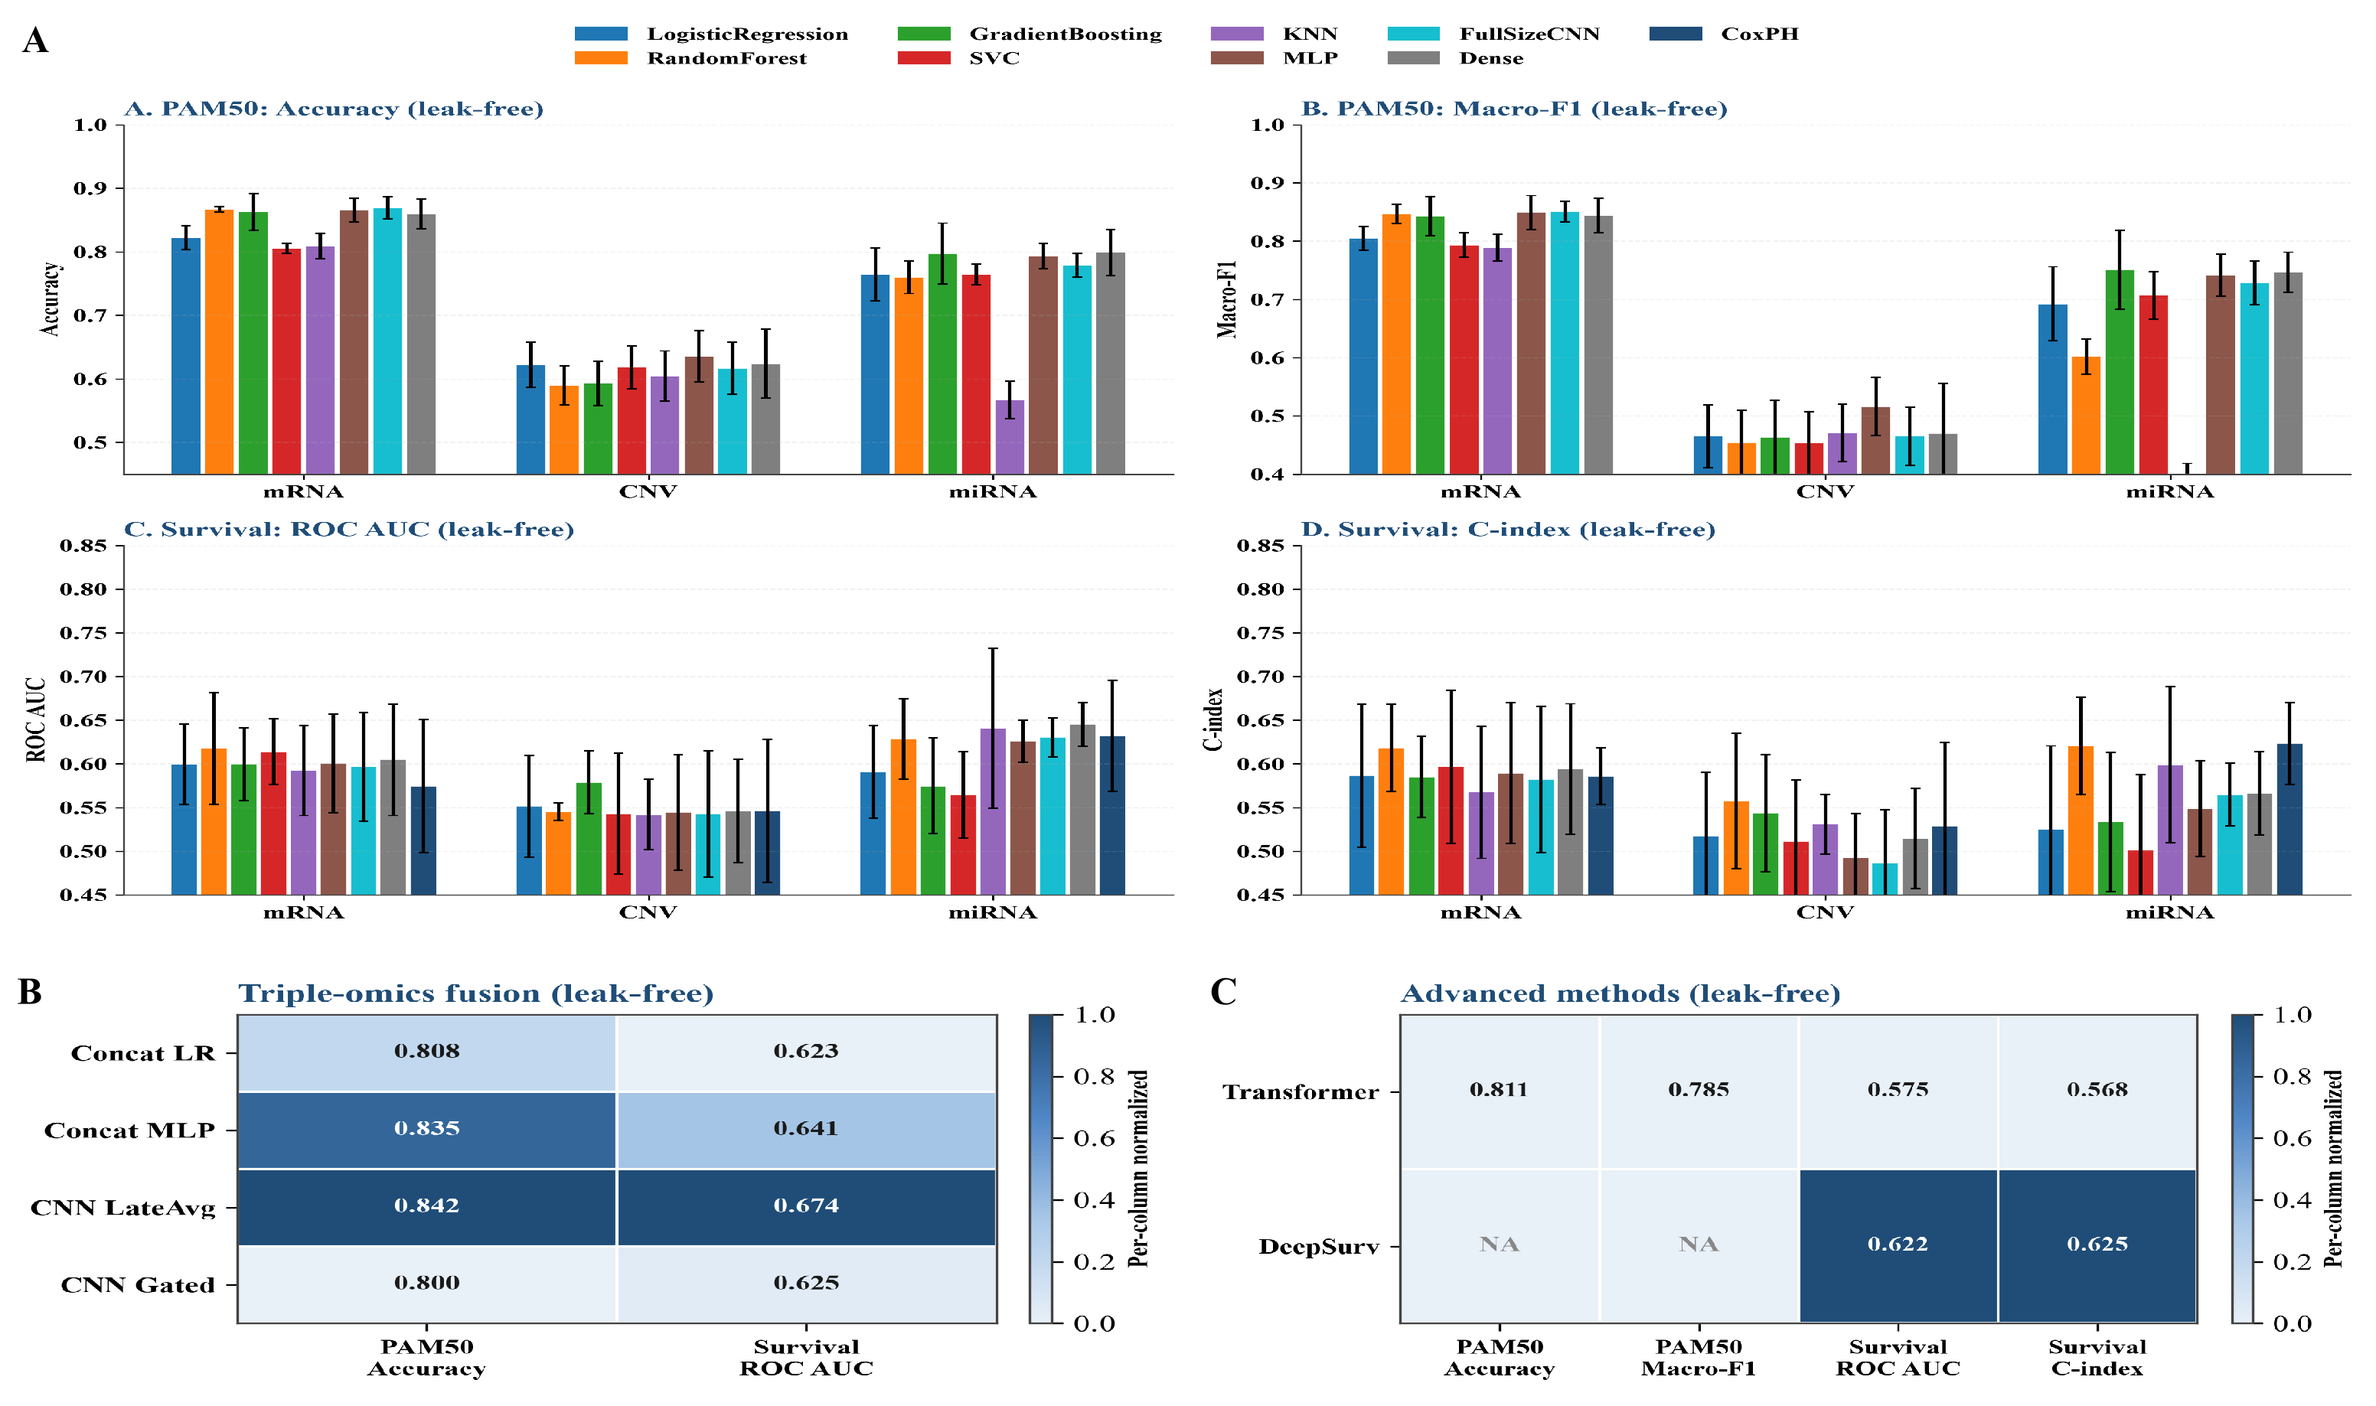
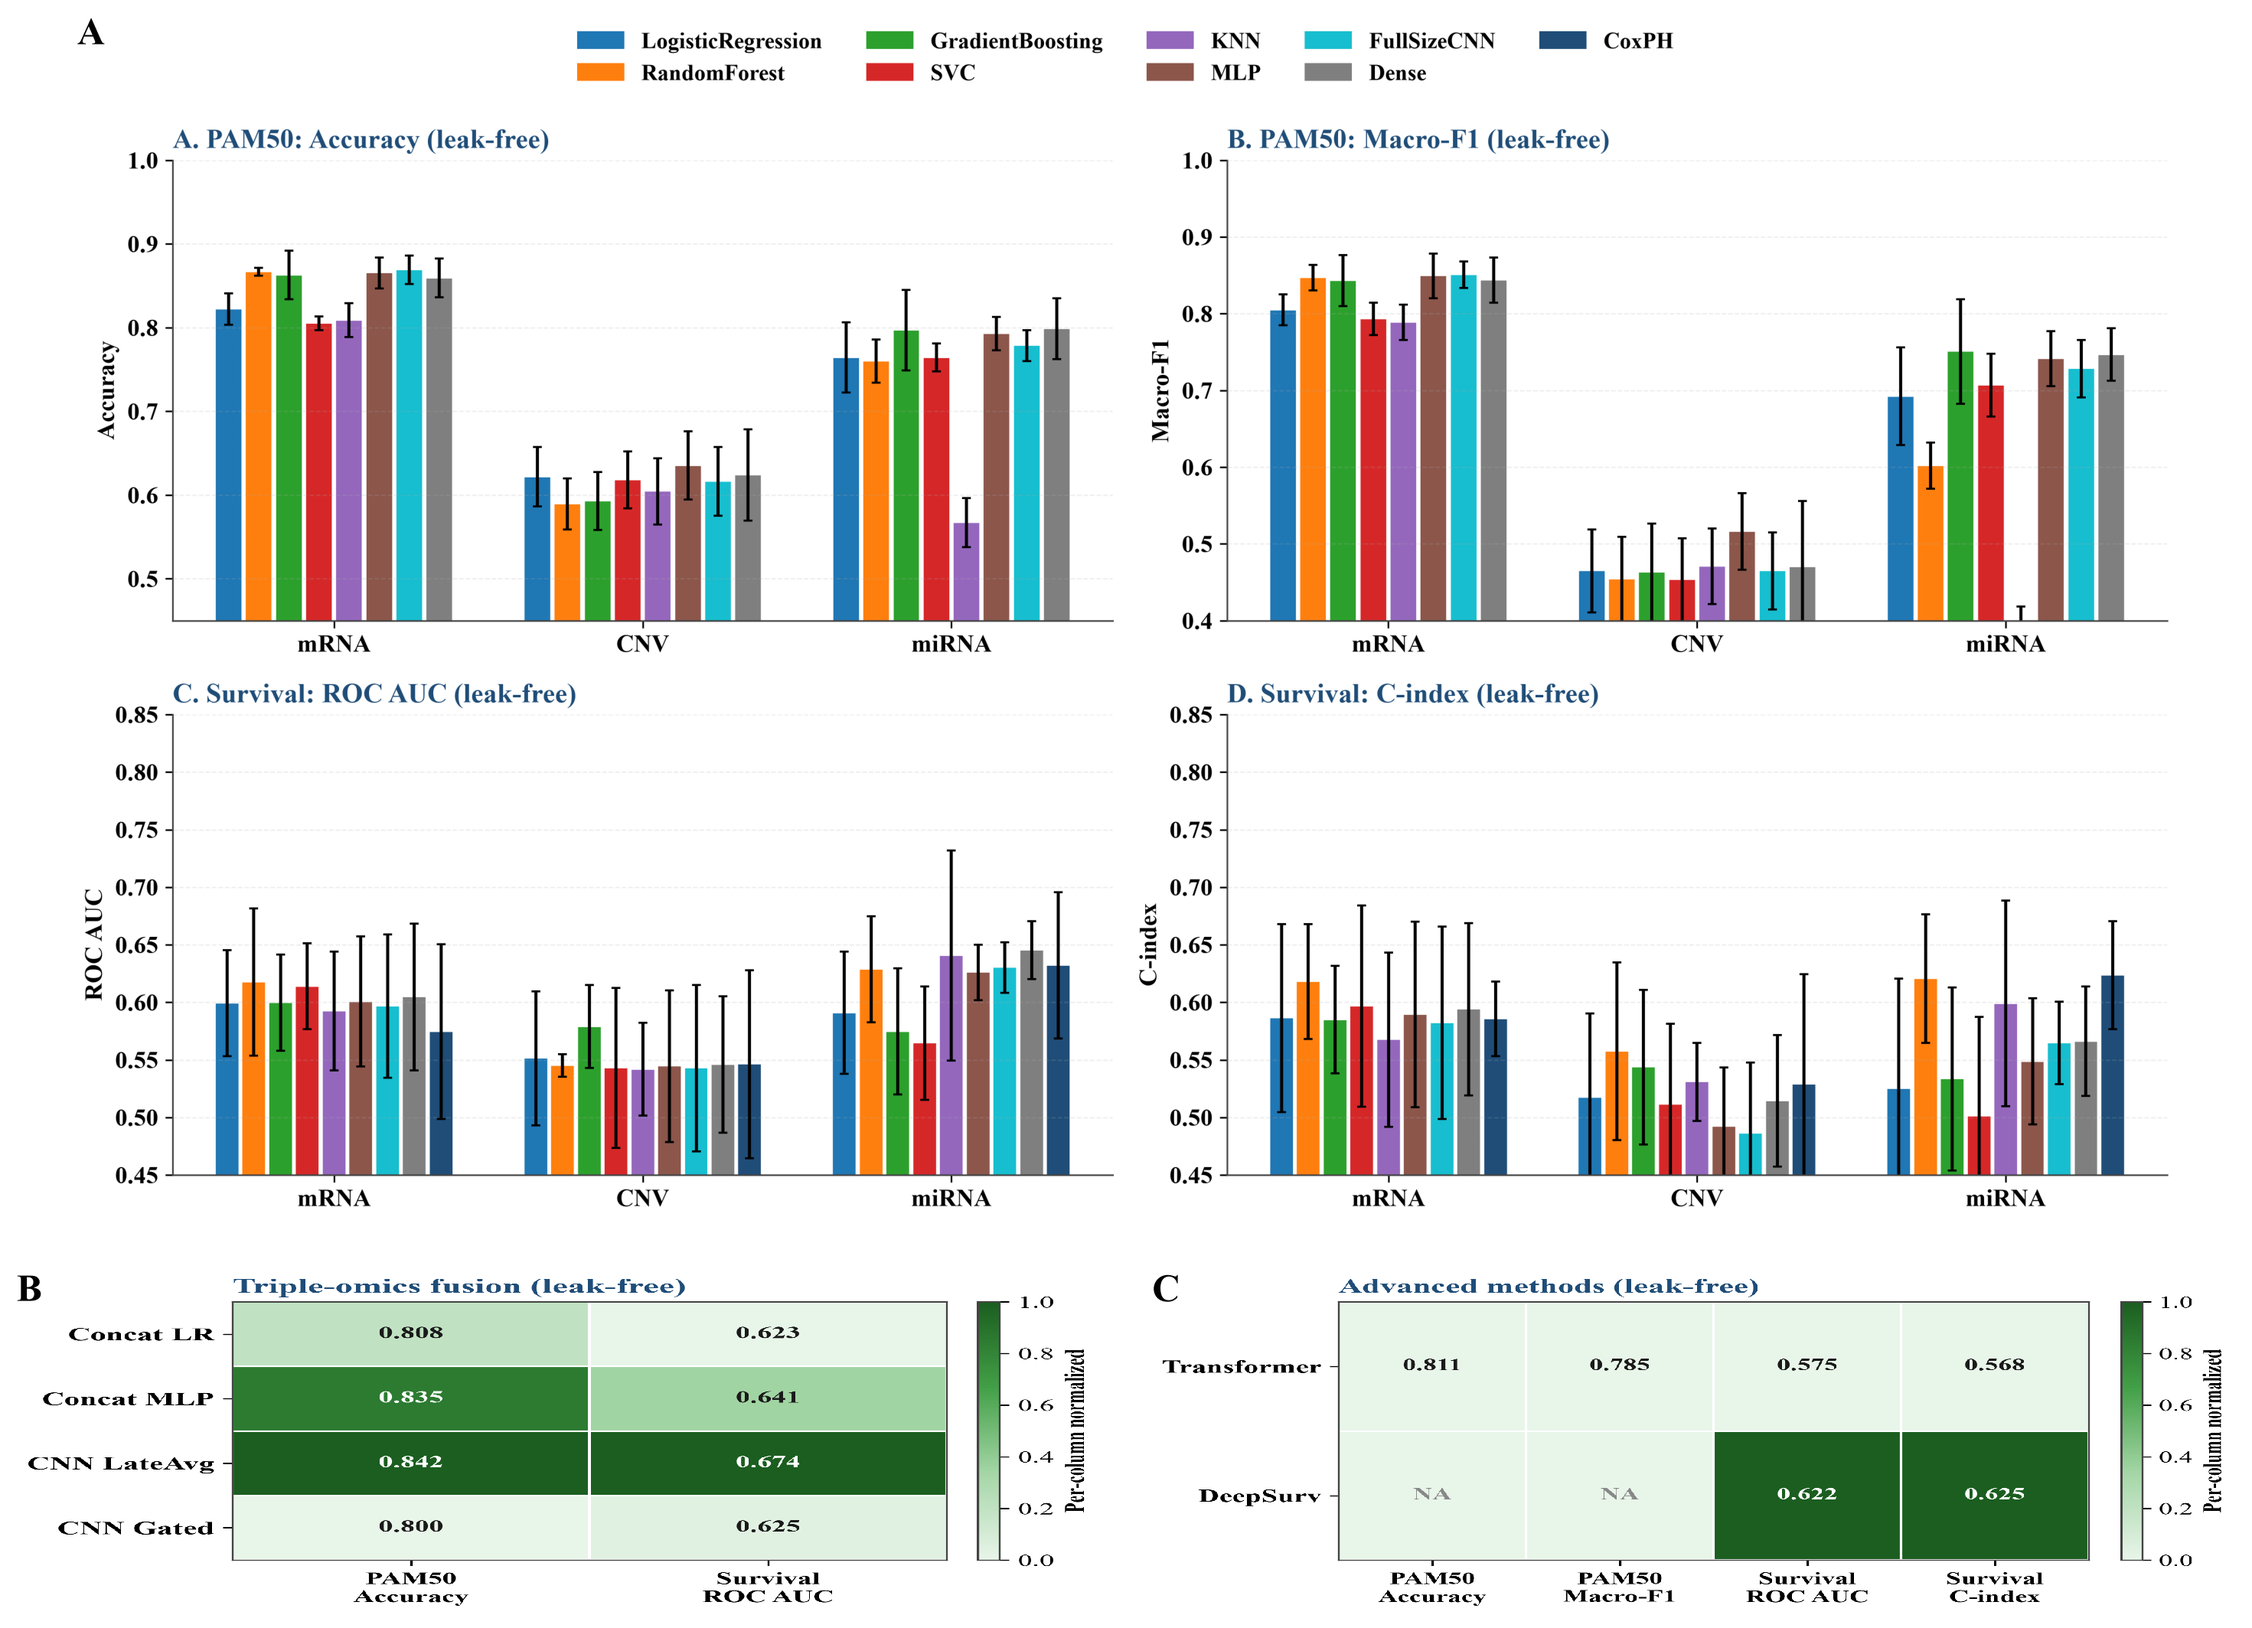
Use green heatmap colormap and larger fonts for Figure 3B/3C
Switch to a green ramp, increase in-cell and label font sizes, and preserve panel A aspect ratio.

diff --git a/scripts/make_fig3_bc_heatmap.py b/scripts/make_fig3_bc_heatmap.py
@@ -33,8 +33,8 @@ plt.rcParams.update({
 
 
 def draw_heatmap(mat, row_labels, col_labels, value_fmt, title, out, figsize, na_text="NA"):
-    blue_cmap = LinearSegmentedColormap.from_list(
-        "bc_blue", ["#E8F0F8", "#A9C8E8", "#4F86C6", "#1F4D78"]
+    green_cmap = LinearSegmentedColormap.from_list(
+        "bc_green", ["#E8F5E9", "#A5D6A7", "#43A047", "#1B5E20"]
     )
     # per-column min-max normalization
     norm = np.full_like(mat, np.nan, dtype=float)
@@ -46,30 +46,30 @@ def draw_heatmap(mat, row_labels, col_labels, value_fmt, title, out, figsize, na
             norm[:, j] = (col - lo) / (hi - lo) if hi > lo else 0.0
 
     fig, ax = plt.subplots(figsize=figsize)
-    im = ax.imshow(norm, cmap=blue_cmap, aspect="auto", vmin=0, vmax=1)
+    im = ax.imshow(norm, cmap=green_cmap, aspect="auto", vmin=0, vmax=1)
     ax.set_xticks(np.arange(len(col_labels)))
-    ax.set_xticklabels(col_labels, fontsize=9.5, fontweight="bold")
+    ax.set_xticklabels(col_labels, fontsize=11, fontweight="bold")
     ax.set_yticks(np.arange(len(row_labels)))
-    ax.set_yticklabels(row_labels, fontsize=10, fontweight="bold")
-    ax.set_title(title, loc="left", fontweight="bold", color=DARK, fontsize=12)
+    ax.set_yticklabels(row_labels, fontsize=12, fontweight="bold")
+    ax.set_title(title, loc="left", fontweight="bold", color=DARK, fontsize=13.5)
 
     for i in range(len(row_labels)):
         for j in range(len(col_labels)):
             v = mat[i, j]
             if np.isnan(v):
-                ax.text(j, i, na_text, ha="center", va="center", fontsize=10,
+                ax.text(j, i, na_text, ha="center", va="center", fontsize=11,
                         fontweight="bold", color="#888888")
             else:
                 color = "white" if (not np.isnan(norm[i, j]) and norm[i, j] > 0.55) else "#1a1a1a"
                 ax.text(j, i, value_fmt.format(v), ha="center", va="center",
-                        fontsize=9.5, fontweight="bold", color=color)
+                        fontsize=11, fontweight="bold", color=color)
 
     ax.set_xticks(np.arange(len(col_labels) + 1) - 0.5, minor=True)
     ax.set_yticks(np.arange(len(row_labels) + 1) - 0.5, minor=True)
     ax.grid(which="minor", color="white", linewidth=1.0)
     ax.tick_params(which="minor", length=0)
     cb = fig.colorbar(im, ax=ax, fraction=0.05, pad=0.04)
-    cb.set_label("Per-column normalized", fontsize=9, fontweight="bold")
+    cb.set_label("Per-column normalized", fontsize=10.5, fontweight="bold")
     fig.tight_layout()
     fig.savefig(out, dpi=300)
     plt.close(fig)
@@ -89,7 +89,7 @@ def make_B():
             if not sub.empty:
                 mat[i, j] = float(sub["mean"].iloc[0])
     draw_heatmap(mat, labels, [m[2] for m in metrics], "{:.3f}",
-                 "Triple-omics fusion (leak-free)", B_OUT, figsize=(5.4, 2.9))
+                 "Triple-omics fusion (leak-free)", B_OUT, figsize=(6.0, 3.3))
 
 
 def make_C():
@@ -105,15 +105,20 @@ def make_C():
             if not sub.empty:
                 mat[i, j] = float(sub["mean"].iloc[0])
     draw_heatmap(mat, methods, labels, "{:.3f}",
-                 "Advanced methods (leak-free)", C_OUT, figsize=(5.8, 2.9), na_text="NA")
+                 "Advanced methods (leak-free)", C_OUT, figsize=(6.4, 3.3), na_text="NA")
 
 
 def merge():
-    fig = plt.figure(figsize=(16, 9.5))
-    gs = fig.add_gridspec(2, 2, height_ratios=[1.35, 0.62], hspace=0.06, wspace=0.03,
-                          left=0.02, right=0.98, top=0.97, bottom=0.02)
-    for ax, path, label in [(fig.add_subplot(gs[0, :]), A, "A"),
-                            (fig.add_subplot(gs[1, 0]), B_OUT, "B"),
+    fig = plt.figure(figsize=(15, 10.8))
+    gs = fig.add_gridspec(2, 2, height_ratios=[3.5, 1], hspace=0.06, wspace=0.04,
+                          left=0.015, right=0.985, top=0.985, bottom=0.015)
+    axA = fig.add_subplot(gs[0, :])
+    imgA = imread(A)
+    axA.imshow(imgA, aspect="equal")
+    axA.set_axis_off()
+    axA.text(0.002, 0.995, "A", transform=axA.transAxes, fontsize=18, fontweight="bold",
+             va="top", ha="left", color="black")
+    for ax, path, label in [(fig.add_subplot(gs[1, 0]), B_OUT, "B"),
                             (fig.add_subplot(gs[1, 1]), C_OUT, "C")]:
         img = imread(path)
         ax.imshow(img, interpolation="nearest", aspect="auto")
